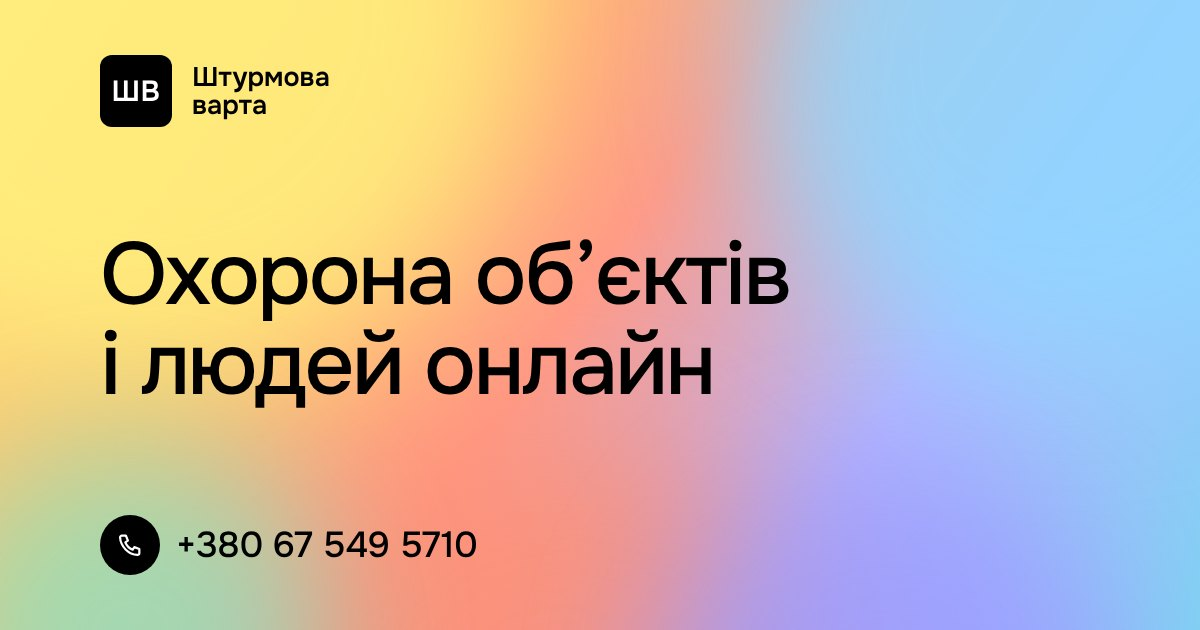
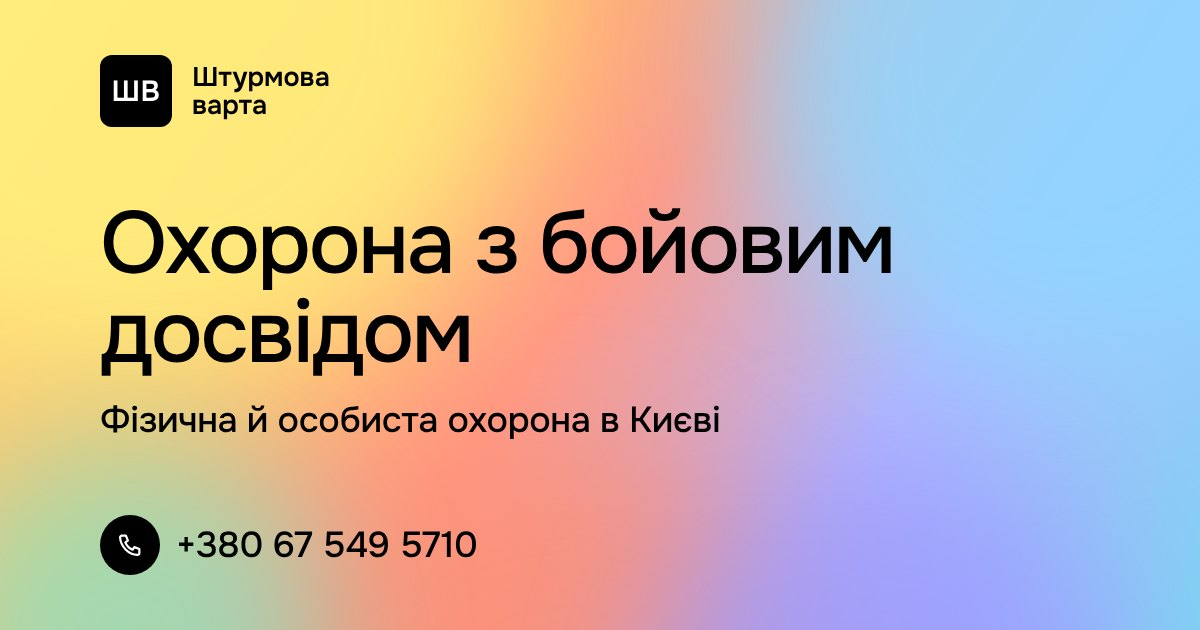
Штурмова варта: нові тексти (H1, «Хто на постах», SEO-блок), схема адрес Cloudflare Pages, _headers, збірка dist
Claude-Session: https://claude.ai/code/session_01SrxZjC5zLnvFDt1wpwCUvh

Changed region(s): [[0.0617, 0.3317, 0.74, 0.6937]]

diff --git a/clients/shturmova-varta/site/css/style.css b/clients/shturmova-varta/site/css/style.css
@@ -387,23 +387,22 @@ ul, ol { list-style: none; }
    10a. ХТО НА ПОСТАХ (після сітки послуг)
    ========================================================= */
 .posts { padding: 96px 0 0; }
-.posts-head { display: grid; grid-template-columns: 1fr 1fr; gap: var(--col-gap); align-items: start; }
-.posts-lead { max-width: 560px; padding-top: 8px; font-size: 20px; line-height: 1.45; }
-.posts-list { display: grid; grid-template-columns: repeat(4, 1fr); gap: var(--col-gap); margin-top: 72px; }
-.posts-list li { position: relative; padding-top: 22px; font-size: 17px; line-height: 1.5; color: var(--fg-2); }
-.posts-list li::before { content: ""; position: absolute; left: 0; top: 0; width: 100%; height: 2px; background: var(--accent-line); }
+/* два білі блоки поспіль («Хто на постах» і «Ситуації») – розділяємо тонкою лінією в межах сітки */
+.posts-in { display: grid; grid-template-columns: minmax(0, 1fr) minmax(0, 1fr); gap: var(--col-gap); align-items: start; }
+.posts-in::after { content: ""; grid-column: 1 / -1; height: 1px; margin-top: 66px; background: var(--line-soft); }
+.posts-lead { max-width: 520px; margin-top: 32px; font-size: 20px; line-height: 1.45; }
+.posts-list { display: grid; padding-top: 8px; }
+.posts-list li { padding: 20px 0 22px; border-top: 2px solid var(--line); font-size: 18px; line-height: 1.5; color: var(--fg-2); }
+.posts-list li + li { border-top-width: 1px; border-top-color: var(--line-soft); }
 .posts-list b { font-weight: 500; color: var(--fg); }
-/* «Ситуації» йдуть одразу після – тонка лінія між двома білими блоками */
-.posts + .sit .wrap { border-top: 1px solid var(--line-soft); padding-top: 96px; }
-.posts + .sit { padding-top: 96px; }
-@media (max-width: 1100px) { .posts-list { grid-template-columns: 1fr 1fr; row-gap: 40px; } }
+@media (max-width: 1100px) { .posts-in { grid-template-columns: minmax(0, 1fr); gap: 40px; } .posts-in::after { margin-top: 16px; } .posts-lead { max-width: 640px; } }
 @media (max-width: 640px) {
   .posts { padding: 48px 0 0; }
-  .posts-head { grid-template-columns: 1fr; gap: 16px; }
-  .posts-lead { padding-top: 0; font-size: 17px; }
-  .posts-list { grid-template-columns: 1fr; gap: 24px; margin-top: 32px; }
-  .posts-list li { padding-top: 16px; font-size: 16px; }
-  .posts + .sit, .posts + .sit .wrap { padding-top: 48px; }
+  .posts-in { gap: 28px; }
+  .posts-in::after { margin-top: 20px; }
+  .posts-lead { margin-top: 16px; font-size: 17px; }
+  .posts-list { padding-top: 0; }
+  .posts-list li { padding: 16px 0 18px; font-size: 16px; }
 }
 
 /* =========================================================
@@ -433,7 +432,7 @@ ul, ol { list-style: none; }
 .demo-log li { display: grid; grid-template-columns: 44px 1fr; gap: 8px; padding: 7px 0; border-top: 1px solid var(--line-soft); line-height: 1.3; font-size: 13px; }
 .demo-log time { font-weight: 600; }
 .demo-bill { border: 1px solid var(--line-soft); border-radius: 10px; padding: 12px; }
-.demo-bill .sum { font-size: 22px; font-weight: 500; margin: 2px 0 10px; }
+.demo-bill .demo-sum { font-size: 18px; font-weight: 500; white-space: nowrap; margin: 4px 0 12px; }
 .demo-bill .mini { display: inline-block; padding: 5px 10px; border-radius: 999px; border: 1px solid var(--line-soft); color: var(--muted); font-size: 12px; }
 @media (max-width: 1100px) { .cab-grid { grid-template-columns: 1fr; gap: 48px; } }
 @media (max-width: 640px) {
@@ -454,20 +453,21 @@ ul, ol { list-style: none; }
    11a. ПРО ПОСЛУГИ – текстовий блок перед «Питаннями» (спокійна типографіка)
    ========================================================= */
 .about { padding: 104px 0 104px; }
-.about-grid { display: grid; grid-template-columns: 1fr 1fr; gap: var(--col-gap); align-items: start; }
+.about-grid { display: grid; grid-template-columns: minmax(0, 1fr) minmax(0, 1fr); gap: var(--col-gap); align-items: start; }
 .about-grid > .h2 { font-size: 40px; line-height: 1.08; letter-spacing: -.02em; max-width: 520px; }
+@media (min-width: 1101px) { .about-grid > .h2 { position: sticky; top: 32px; } }
 .about-body { max-width: 640px; }
 .about-body p { margin-top: 14px; font-size: 17px; line-height: 1.6; color: var(--fg-2); }
 .about-body p.about-lead { margin-top: 0; font-size: 20px; line-height: 1.5; color: var(--fg); }
 .about-body h3 { margin-top: 48px; font-size: var(--fs-h3); font-weight: 500; line-height: 1.15; letter-spacing: -.01em; }
 .about-body a { text-underline-offset: 3px; }
 .about-steps { margin-top: 16px; counter-reset: s; display: grid; }
-.about-steps li { counter-increment: s; display: flex; gap: 16px; padding: 14px 0; border-top: 1px solid var(--line-soft); font-size: 17px; line-height: 1.55; color: var(--fg-2); }
+.about-steps li { counter-increment: s; position: relative; padding: 14px 0 14px 32px; border-top: 1px solid var(--line-soft); font-size: 17px; line-height: 1.55; color: var(--fg-2); }
 .about-steps li:last-child { border-bottom: 1px solid var(--line-soft); }
-.about-steps li::before { content: counter(s); flex: none; width: 16px; font-weight: 600; color: var(--fg); }
+.about-steps li::before { content: counter(s); position: absolute; left: 0; top: 14px; font-weight: 600; color: var(--fg); }
 .about-steps b { font-weight: 500; color: var(--fg); }
 .about-steps + p { margin-top: 20px; }
-@media (max-width: 1100px) { .about-grid { grid-template-columns: 1fr; gap: 32px; } .about-grid > .h2 { max-width: 640px; } }
+@media (max-width: 1100px) { .about-grid { grid-template-columns: minmax(0, 1fr); gap: 32px; } .about-grid > .h2 { max-width: 640px; } }
 @media (max-width: 640px) {
   .about { padding: 48px 0 56px; }
   .about-grid { gap: 20px; }

diff --git a/clients/shturmova-varta/site/index.html b/clients/shturmova-varta/site/index.html
@@ -158,7 +158,7 @@
         <input id="q" name="q" type="search" maxlength="80" autocomplete="off" enterkeyhint="go" placeholder="Що потрібно охороняти? Наприклад: офіс, склад, будинок" data-short="Що охороняти? Офіс, склад…">
         <button class="round" type="submit" aria-label="Підібрати охорону"><svg class="i"><use href="#i-arrow"/></svg></button>
       </form>
-      <p class="hint">Наприклад: <a href="/wizard?t=object&amp;p=Офіс%20або%20бізнес-центр">офіс</a>, <a href="/wizard?t=object&amp;p=Склад%20чи%20виробництво">склад</a> або <a href="/wizard?t=person">особиста охорона</a></p>
+      <p class="hint">Наприклад: <a href="/wizard?t=object&amp;p=Офіс%20або%20бізнес-центр">офіс</a>, <a href="/wizard?t=object&amp;p=Склад%20чи%20виробництво">склад</a> або <a href="/wizard?t=person">особиста&nbsp;охорона</a></p>
     </div>
     <div id="p-call" role="tabpanel" aria-labelledby="sw-call" hidden>
       <div class="callbox">
@@ -310,7 +310,7 @@
 
 <!-- ХТО НА ПОСТАХ -->
 <section class="posts" id="posty" aria-labelledby="posts-h">
-  <div class="wrap">
+  <div class="wrap posts-in">
     <div class="posts-head">
       <h2 class="h2" id="posts-h">Хто на постах</h2>
       <p class="posts-lead">На постах «Штурмової варти» – ветерани та співробітники з&nbsp;бойовим досвідом. Що це означає для вас: на&nbsp;об’єкті – людина, яка працює за погодженим з&nbsp;вами графіком і&nbsp;відповідає за свою зміну.</p>
@@ -363,7 +363,7 @@
                   <li><time>17:45</time><span>В’їзд: 2 вантажівки, звірено з перепустками</span></li>
                 </ol>
               </div>
-              <div class="demo-bill"><b class="demo-h">Рахунок за місяць</b><div class="sum">Сума до сплати</div><span class="mini">Оплата – незабаром</span></div>
+              <div class="demo-bill"><b class="demo-h">Рахунок за місяць</b><div class="demo-sum">Сума до сплати</div><span class="mini">Оплата – незабаром</span></div>
             </div>
           </div>
         </div>

diff --git a/clients/shturmova-varta/site/js/wizard.js b/clients/shturmova-varta/site/js/wizard.js
@@ -1,7 +1,7 @@
 /* Майстер заявки: одне питання на екран, 4 кроки + екран «надіслано». Без бібліотек.
    Параметри адреси (див. README):
      t = object | person | event | unsure   – що охороняти (відкриває крок 2)
-     p = обʼєкт, w = кого, e = захід        – точне значення варіанта кроку 2
+     p = об’єкт, w = кого, e = захід        – точне значення варіанта кроку 2
      q = текст із пошуку на головній        – розбираємо ключовими словами
    Надсилання – на SV_CONFIG.ENDPOINT (js/config.js). Якщо його немає – НЕ вдаємо успіх,
    а показуємо «Залишився один крок – подзвоніть» з усіма відповідями. */

diff --git a/clients/shturmova-varta/site/README.md b/clients/shturmova-varta/site/README.md
@@ -3,15 +3,18 @@
 ТОВ «Охоронна компанія „Штурмова варта“», Київ, +380 67 549 5710.
 Зверстано за погодженим макетом `../design/concept-diia-2/` (див. його `README.md`: токени, компоненти, стани, поведінка). Візуал, структура і тексти – як у макеті; що додано понад макет – нижче.
 
-Статичний сайт: HTML + CSS + трохи JS, без бібліотек, без збірки і без бекенду. **Нічого не задеплоєно і не опубліковано.**
+Статичний сайт: HTML + CSS + трохи JS, без бібліотек і без бекенду. Хостинг – **Cloudflare Pages** (рішення людини, 19.11.2026), адреси без `.html`. **Нічого не задеплоєно і не опубліковано.**
+
+Тексти – `../copy/site-copy-v2.md` (рекомендовані варіанти; примітки «не для публікації» на сайт не виведено, фрази, що чекають відповідей з анкети, прибрано – див. «Що лишилось»). SEO-правки – з `../seo-audit.md`.
 
 ## Що в теці
 
 | Шлях | Що це |
 |---|---|
-| `index.html` | головна |
-| `wizard.html` | майстер заявки (4 кроки) |
-| `privacy.html` | політика конфіденційності – **заглушка, текст готує юрист [уточнити]**, `noindex` |
+| `index.html` | головна (адреса `/`) |
+| `wizard.html` | майстер заявки, 4 кроки (адреса `/wizard`), `noindex, follow` |
+| `privacy.html` | політика конфіденційності (адреса `/privacy`) – **заглушка, текст готує юрист [уточнити]**, `noindex` |
+| `_headers` | заголовки Cloudflare Pages: безпека (CSP, nosniff, Referrer-Policy, X-Frame-Options, HSTS), кешування статики, `noindex` для `*.pages.dev` |
 | `404.html` | сторінка «не знайдено», `noindex`, шляхи від кореня (`/css/…`), бо віддається з будь-якої адреси |
 | `css/style.css` | усі стилі (токени – розділ 1; доповнення до макета – розділ 17) |
 | `js/config.js` | **налаштування: куди йдуть заявки, контакти, графік, місця під аналітику** |
@@ -23,25 +26,25 @@
 | `favicon.ico`, `icons/`, `site.webmanifest` | іконки зі знака «ШВ»: 16, 32, 48 (ico), 180 (apple-touch), 192, 512; окремо maskable 192 і 512 (знак у безпечній зоні) |
 | `robots.txt`, `sitemap.xml` | з доменом-заглушкою |
 | `integrations/cloudflare-worker.js` | приймач заявок → Telegram, готовий до розгортання (не розгорнуто) |
-| `tools/` | службові скрипти (не викладати на хостинг) |
+| `tools/` | службові скрипти (не викладати на хостинг); `tools/build-dist.cjs` збирає `dist/` для деплою |
 | `img/src/`, `shots/` | вихідні фото і скриншоти перевірки (не викладати на хостинг) |
 
 ## Запустити локально
 
 ```bash
 cd clients/shturmova-varta/site
-node tools/serve.cjs 8080          # http://localhost:8080 – як на хостингу: 404.html на відсутні адреси
-# або без Node: python3 -m http.server 8080 (але тоді 404 буде стандартна)
+node tools/serve.cjs 8080          # http://localhost:8080 – як Cloudflare Pages: /wizard, 308 з .html, 404.html, заголовки з _headers
 ```
 
-`index.html` і `wizard.html` відкриваються й просто з диска (подвійний клік), крім 404.
+Сторінки відкривайте через `serve.cjs`, а не з диска: посилання ведуть на `/` і `/wizard` (схема Cloudflare Pages), з диска вони не працюють. `python3 -m http.server` теж не підійде – він не знає адрес без `.html`.
 
 Перевірка (потрібен Playwright: `npm i -g playwright && npx playwright install chromium`):
 
 ```bash
-node tools/test-site.cjs http://localhost:8080 shots/states        # 140+ перевірок: майстер, надсилання, антиспам, маска, прокрутка, шрифт, 404, SEO
+node tools/test-site.cjs http://localhost:8080 shots/states        # 190+ перевірок: майстер, надсилання, антиспам, маска, прокрутка, шрифт, 404, SEO, тексти v2, адреси Pages, _headers, CSP
 node tools/test-worker.mjs                                        # приймач заявок без мережі: поля, антиспам, Origin, Turnstile, збої Telegram
-node ../../../tools/screenshot.cjs http://localhost:8080/index.html shots/index   # скриншоти 360/768/1440 + report.json
+node ../../../tools/screenshot.cjs http://localhost:8080/ shots/index         # скриншоти 360/768/1440 + report.json
+node ../../../tools/screenshot.cjs http://localhost:8080/wizard shots/wizard
 ```
 
 ## Що налаштувати в `js/config.js`
@@ -144,32 +147,35 @@ POST на `ENDPOINT`, JSON (або форма, якщо `ENDPOINT_FORMAT: 'form'
 
 ## SEO і технічне
 
-- `title`, `description`, `canonical`, Open Graph і Twitter на головній і в майстрі; на `privacy.html` і `404.html` – `noindex` і без `canonical` (додати `canonical` разом зі зняттям `noindex`, коли буде текст політики).
+- **Схема адрес – Cloudflare Pages:** `/`, `/wizard`, `/privacy`. Pages сам віддає `wizard.html` за адресою `/wizard` і переадресовує `/wizard.html` → `/wizard`, `/index.html` → `/` (308). Тому canonical, `og:url`, sitemap і всі внутрішні посилання (логотип і меню → `/`, кнопки → `/wizard`, згода → `/privacy`) – одразу на кінцеві адреси, без редиректів. `404.html` – з кореневими шляхами (`/css/…`, посилання `/`, `/wizard`), бо віддається з будь-якої глибини. `_redirects` не потрібен: .html Pages прибирає сам, а `www` ↔ без `www` робиться не в Pages, а правилом переадресації в зоні Cloudflare (див. «Деплой»).
+- `title`, `description`, `canonical`, Open Graph і Twitter на головній і в майстрі – тексти з `site-copy-v2.md`. Майстер – `noindex, follow` і canonical на себе (`/wizard`), у sitemap його немає, у `robots.txt` **не закривати** (інакше Google не побачить `noindex`). `privacy.html` і `404.html` – `noindex` без `canonical` (додати `canonical` разом зі зняттям `noindex`, коли буде текст політики).
+- H1 – «Охорона з бойовим досвідом», під ним видимий підзаголовок `<p class="hero-sub">` з типом послуги і Києвом. Текстовий блок «Фізична охорона об’єктів і особиста охорона в Києві» (H2 + три H3, ~270 слів) – перед «Питаннями». FAQPage-розмітки немає й не додавати, доки відповіді FAQ не заповнені.
+- `<br>` у великих `h2` – з пробілом перед ним («Популярні <br>послуги»), щоб слова не склеювались для пошуковиків і скрінрідерів.
 - **Домен невідомий [уточнити]**: усюди стоїть заглушка `https://shturmova-varta.example`. Коли буде домен: `python3 tools/set-domain.py https://справжній-домен.ua` (canonical, OG, schema.org, robots.txt, sitemap.xml).
-- schema.org – `LocalBusiness` (у словнику schema.org окремого типу для охоронних компаній не знайшов): назва, юр. назва, телефон, Київ; зона обслуговування (`areaServed`) – Київ і в самій компанії, і в контактній точці. Вулиця, ЄДРПОУ, графік, соцмережі – не вигадані, додати, коли будуть.
-- `sitemap.xml` – головна і майстер; `privacy.html` додати і зняти `noindex`, коли юрист дасть текст.
-- Посилання всередині сайту – `index.html`, `wizard.html` (щоб працювало з диска); дублікати `/` і `/index.html` закриває `canonical`.
+- schema.org – `@graph` з `LocalBusiness` (у словнику schema.org окремого типу для охоронних компаній не знайшов) і `WebSite`: назва, юр. назва (так само, як у футері: «ТОВ «Охоронна компанія „Штурмова варта“»»; точний запис з ЄДР – **[уточнити]**), телефон, Київ; зона обслуговування (`areaServed`) – Київ і в самій компанії, і в контактній точці. Вулиця, ЄДРПОУ, графік, соцмережі – не вигадані, додати, коли будуть.
+- `sitemap.xml` – лише головна; `/privacy` додати і зняти `noindex`, коли юрист дасть текст. `robots.txt` нічого не закриває.
 
 ## Продуктивність
 
 - Фото: WebP + JPEG-запас через `<picture>`, `srcset` 600/1200 w, `sizes`, `width/height`, `loading="lazy"`, `decoding="async"`. Нові фото – у `img/src/`, потім `python3 tools/optimize-images.py` (потрібен Pillow) і поправити шляхи в `index.html`.
 - Шрифт Onest – локально в `fonts/` (без Google Fonts і без запитів до сторонніх серверів): змінний woff2, ваги 400–600 в одному файлі, два набори символів – кирилиця (16 КБ, `preload` на всіх сторінках) і латиниця (34 КБ, вантажиться, коли на сторінці є латиниця чи цифри); `font-display: swap`. Ліцензія SIL OFL 1.1 – `fonts/OFL.txt`, дозволяє хостити самим. Оновити файли: взяти woff2 для `cyrillic` і `latin` з CSS `https://fonts.googleapis.com/css2?family=Onest:wght@400;500;600` (запит із сучасним браузерним User-Agent).
-- Інших зовнішніх ресурсів і бібліотек немає (Turnstile – лише якщо його увімкнуть). Скрипти – в кінці `body`, не блокують показ.
-- OG-зображення й іконки перегенерувати: `node tools/make-icons-og.cjs && python3 tools/make-favicon-ico.py` (сервер і мережа не потрібні, шрифт – з `fonts/`). OG – окрема композиція 1200×630: градієнт першого екрана, знак «ШВ» з назвою, «Охорона об’єктів і людей онлайн», телефон; усе важливе – в центральних ~1000×520, тож не обріжеться в прев’ю соцмереж.
+- Інших зовнішніх ресурсів і бібліотек немає (Turnstile – лише якщо його увімкнуть). Скрипти – в кінці `body` і з `defer`, не блокують показ.
+- Стиснення (brotli/gzip) Cloudflare Pages вмикає сам. Кешування – у `_headers`: шрифти – рік (`immutable`), фото й іконки – тиждень, CSS/JS – година у вихідному `_headers`; `tools/build-dist.cjs` у `dist/` додає до посилань на CSS/JS `?v=<хеш вмісту>` і ставить їм рік з `immutable`. HTML Pages віддає з `max-age=0, must-revalidate` – правки видно одразу. `Cache-Control` у правилі `/*` не задавати: Pages склеює однакові заголовки з кількох правил через кому.
+- OG-зображення й іконки перегенерувати: `node tools/make-icons-og.cjs && python3 tools/make-favicon-ico.py` (сервер і мережа не потрібні, шрифт – з `fonts/`). OG – окрема композиція 1200×630: градієнт першого екрана, знак «ШВ» з назвою, «Охорона з бойовим досвідом» (як H1), «Фізична й особиста охорона в Києві», телефон; усе важливе – в центральних ~1000×520, тож не обріжеться в прев’ю соцмереж.
 
 ## Аналітика
 
 Нічого не підключено. Місця під GA4 і Meta Pixel – закоментовані в `js/config.js`. Сайт уже викликає події (`click_call`, `click_wizard`, `wizard_step`, `lead_submit`, `generate_lead`, `lead_error`, `lead_offline`), вони запрацюють, щойно на сторінці з’явиться `gtag` чи `fbq`. Банер згоди на cookies – погодити з юристом **[уточнити]**.
 
-## Деплой (не виконано – лише інструкція)
+## Деплой на Cloudflare Pages (не виконано – лише інструкція)
 
-Підійде будь-який статичний хостинг: Cloudflare Pages, Netlify, GitHub Pages, звичайний хостинг з nginx/Apache.
-
-1. Заповнити `js/config.js` (щонайменше `ENDPOINT`) і виконати `tools/set-domain.py`.
-2. Викласти в корінь сайту: `index.html`, `wizard.html`, `privacy.html`, `404.html`, `favicon.ico`, `site.webmanifest`, `robots.txt`, `sitemap.xml`, теки `css/`, `js/`, `fonts/`, `icons/`, `img/` (**без** `img/src/`). Не викладати: `tools/`, `integrations/`, `shots/`, `README.md`.
-3. Сторінка 404: Netlify і Cloudflare Pages підхоплюють `404.html` самі; nginx – `error_page 404 /404.html;`; Apache – `ErrorDocument 404 /404.html`.
-4. Увімкнути HTTPS і редирект з `www`/без `www` на один варіант; кешування для `img/`, `css/`, `js/`, `fonts/` (після змін у CSS/JS – оновити кеш або додати `?v=2` до посилань).
-5. Перед запуском – `seo-auditor`, а текст згоди й політику перевіряє юрист.
+1. Заповнити `js/config.js` (щонайменше `ENDPOINT`) і виконати `python3 tools/set-domain.py https://<домен>`.
+2. Зібрати теку для хостингу: `node tools/build-dist.cjs` → `dist/` (лише публічні файли: сторінки, `_headers`, `robots.txt`, `sitemap.xml`, `site.webmanifest`, `favicon.ico`, `css/`, `js/`, `fonts/`, `icons/`, `img/` без `img/src/`; без `tools/`, `integrations/`, `shots*/`, `README.md`). `dist/` – згенерована, руками не правити.
+3. Викласти: `npx wrangler pages deploy dist --project-name <назва-проєкту>` (або Cloudflare → Workers & Pages → Create → Pages → Upload assets → тека `dist`). Якщо підключати Git-репозиторій – Build command `node tools/build-dist.cjs`, Build output directory `dist`, корінь – тека `site/`.
+4. Pages → Custom domains → додати домен (і `www`). Переадресацію `www` → без `www` (або навпаки, один варіант) – правилом Redirect Rules / Bulk Redirects у зоні домену, 301. HTTPS Pages вмикає сам.
+5. Перевірити `curl -I`: `https://<домен>/` – 200 і заголовки з `_headers`; `/wizard.html` – 308 на `/wizard`; `/index.html` – 308 на `/`; `/nope` – **404**; `http://` і `www` – 301 на головний варіант; `https://<проєкт>.pages.dev/` – `X-Robots-Tag: noindex`.
+6. CSP у `_headers` дозволяє лише власні файли, `challenges.cloudflare.com` (Turnstile) і запити `https:` (приймач заявок). **Коли підключатимете GA4 чи Meta Pixel** – дописати їхні домени в `script-src`, `img-src` і `connect-src` (`www.googletagmanager.com`, `www.google-analytics.com`, `connect.facebook.net`, `www.facebook.com`), інакше лічильники не запрацюють.
+7. Перед запуском – `seo-auditor`, а текст згоди й політику перевіряє юрист.
 
 ## Що лишилось [уточнити]
 
@@ -182,4 +188,6 @@ POST на `ENDPOINT`, JSON (або форма, якщо `ENDPOINT_FORMAT: 'form'
 - Відповіді FAQ, ціни/орієнтири, строки – як у README макета.
 - Ідентифікатори GA4 / Meta Pixel, банер cookies.
 - Фото – ілюстративні (згенеровані), з міткою «ілюстративне фото»; бажано замінити реальними.
-- Посилання «Всі питання та відповіді» – поки якір на блок; кабінет клієнта – демо з позначкою «незабаром».
+- Кабінет клієнта – демо з позначкою «незабаром»: з головного меню прибрано (там тепер «Хто на постах»), блок на сторінці і пункт у футері «Кабінет клієнта – незабаром» лишились. У демо – нейтральні «Ваш об’єкт», «Рахунок за місяць», «Сума до сплати».
+- «Хто на постах» і SEO-блок – лише дозволене формулювання «ветерани та співробітники з бойовим досвідом». Що чекає анкети (`../anketa-kliienta.md`) і на сайт поки не виведено: рядок «Перед виходом на об’єкт кожен охоронець …» (6.4) – прибрано; остання теза – запасний варіант «Охоронець знає свій пост і порядок дій на ньому» (повна версія – після 6.6–6.7); розширені відповіді FAQ «Хто працює на постах?» (6.4, 6.5); у SEO-блоці – огляд об’єкта (4.5), чинники ціни (4.2), ліцензія (2.1), строк старту (3.3), крок «Звіти» (6.7), звірити магазини (5.3), заходи (5.4), поїздки (5.1). Якщо підтвердження статусу ветеранів (6.1–6.2) не буде – формулювання переглянути з клієнтом до запуску.
+- Решта 8 відповідей FAQ, рядки футера з `[уточнити]`, «перевезення цінностей [уточнити]» у картці «Супровід», «[уточнити]» у кабінеті – як були, чекають анкети (аудит К-1, К-2).
